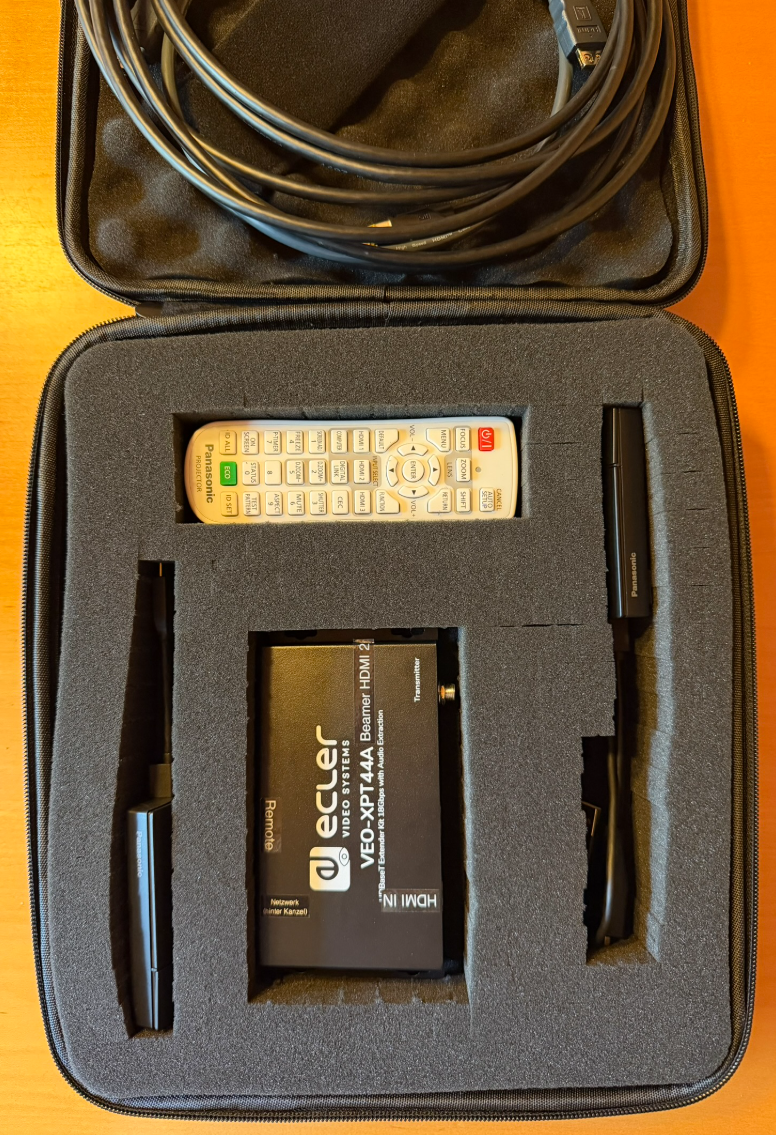
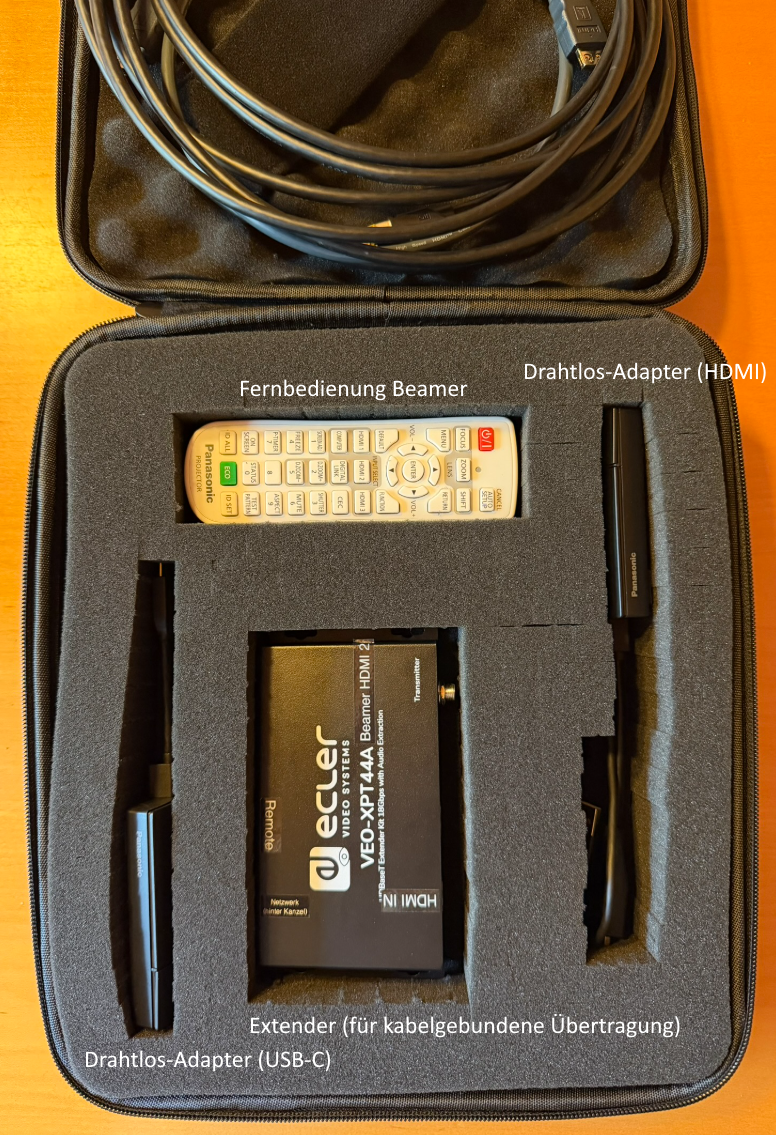
more content

Changed region(s): [[0.1237, 0.8943, 0.866, 0.9559], [0.6804, 0.3084, 0.9897, 0.3392], [0.3093, 0.3392, 0.5876, 0.37]]

diff --git a/beamer-gottesdienstraum.md b/beamer-gottesdienstraum.md
@@ -3,11 +3,14 @@ layout: default
 title: Anleitung Beamer
 ---
 
-
 # Anleitung für den Beamer im Gottesdienstraum der Martin-Luther-Kirche
 *Stand Juni 2026*
 
 ## Allgemein
+
+<div align="left">
+  <img src="beamer-mlk/beamer.png" width="100%">
+</div>
 
 Der Beamer ist fest an der Decke des Kirchenraumes installiert. Am Gerät selbst müssen keine Bedienschritte vorgenommen werden. Ein- und Ausschalten sowie die Auswahl des Eingangssignals erfolgt mittels Fernbedienung, die sich in einem schwarzen Koffer („Zubehör Beamer“) in der Schublade des „Lautsprecher-Schranks“ im Technikraum befindet.
 
@@ -15,25 +18,76 @@ Der Beamer ist fest an der Decke des Kirchenraumes installiert. Am Gerät selbst
   <img src="beamer-mlk/inhalt-koffer.png" width="100%">
 </div>
 
-Der Beamer wird über den roten Knopf eingeschaltet. Ausschalten geschieht ebenfalls über diesen Knopf (**zweimal** drücken).Sollte der Beamer nicht reagieren, bitte darauf achten, mit der Fernbedienung auf den Beamer zu zielen - nicht auf die Projektionsfläche.
+<div align="left">
+  <img src="beamer-mlk/remote-control.png" width="100%">
+</div>
+
+Der Beamer wird über den roten Knopf eingeschaltet. Ausschalten geschieht ebenfalls über diesen Knopf (**zweimal** drücken). Sollte der Beamer nicht reagieren, bitte darauf achten, mit der Fernbedienung auf den Beamer zu zielen - nicht auf die Projektionsfläche.
 
 ## Drahtlose Verbindung
 
-In dem Koffer befinden sich auch zwei Drahtlos-Adapter zum Anschluss von Notebooks. Für aktuelle Notebooks kann der USB-C-Adapter (links im Koffer) verwendet werden. Für ältere Modelle ohne USB-C-Anschluss steht ein HDMI-Adapter bereit (rechts im Koffer). Bitte bei diesem Adapter darauf achten, dass auch das zweite Kabel (mit USB-A-Stecker) im Notebook eingesteckt wird. Ansonsten funktioniert die Verbindung nicht.
+In dem Koffer befinden sich auch zwei Drahtlos-Adapter zum Anschluss von Notebooks. Für aktuelle Notebooks kann der USB-C-Adapter (links im Koffer) verwendet werden. Für ältere Modelle ohne USB-C-Anschluss steht ein HDMI-Adapter bereit (rechts im Koffer). Bitte bei diesem Adapter darauf achten, dass auch das zweite Kabel (mit USB-A-Stecker) zur Stromversorgung im Notebook eingesteckt wird. Ansonsten funktioniert die Verbindung nicht.
 
-![Dongle](beamer-mlk/dongle.png)
+<div align="left">
+  <img src="beamer-mlk/dongle.png" width="75%">
+</div>
 
-Ist der Drahtlos-Adapter korrekt im Notebook eingesteckt, blinkt dieser für einige Sekunden <span style="color: red">**rot**</span>. Bitte warten, bis der Streifen **weiß** leuchtet. Dann auf den Streifen klicken. Die Farbe wechselt zu <span style="color: green">**grün**</span> und der Bildschirminhalt des Notebooks wird auf den Beamer übertragen. Ein erneutes Klicken auf den Streifen beendet die Übertragung und die Farbe wechselt zurück zu **weiß**.
+Ist der Drahtlos-Adapter korrekt im Notebook eingesteckt, blinkt dieser für einige Sekunden <span style="color: red">**rot**</span>. Bitte warten, bis der Streifen **weiß** leuchtet. Dann auf den Streifen klicken / drücken. Die Farbe wechselt zu <span style="color: green">**grün**</span> und der Bildschirminhalt des Notebooks wird auf den Beamer übertragen. Ein erneutes Klicken auf den Streifen beendet die Übertragung und die Farbe wechselt zurück zu **weiß**.
 
-Projiziert der Beamer trotz grünen Lichts den Bildschirminhalt nicht, über die Fernbedienung des Beamers die Eingangsquelle HDMI1 auswählen. Oder ist der Beamer noch ausgeschaltet?
+Ist der Beamer auf die richtige Eingangsquelle konfiguriert, zeigt er, bis der Drahtlos-Adapter verbunden ist, eine Kurzanleitung an:
+
+<div align="left">
+  <img src="beamer-mlk/press-it-quickstart.png" width="100%">
+</div>
+
+### Problembehebung
+
+Projiziert der Beamer trotz grünen Lichts den Bildschirminhalt nicht, über die Fernbedienung des Beamers die Eingangsquelle **HDMI1** auswählen. Oder ist der Beamer noch ausgeschaltet?
+
 
 ## Übertragung des Notebook-Tons
 
-Über diese Verbindungsart kann auch der Notebook-Ton direkt in die Soundanlage der Kirche übertragen werden. Je nach Betriebssystem-Version ist die Bedienung hierzu leicht unterschiedlich. Prinzipiell muss aber über das Lautsprecher-Icon (meist rechts unten) die Soundausgabe festgelegt werden. Hier steht im Normalfall die eingebauten Lautsprecher und der Beamer zur Auswahl.
+Der Notebook-Ton kann direkt in die Soundanlage der Kirche übertragen werden. Je nach Betriebssystem-Version ist die Bedienung hierzu leicht unterschiedlich. Prinzipiell muss aber über das Lautsprecher-Icon (meist rechts unten) die Soundausgabe festgelegt werden. Hier steht im Normalfall die eingebauten Lautsprecher und der Beamer zur Auswahl.
 
-Ist der Ton zu leise, entweder am Notebook selbst die Lautstärke erhöhen oder am Bedienpult für der Lautsprecheranlage *Kanal 2* lauter regeln.
-Ist trotz der korrekten Auswahl der Soundausgabe am Notebook kein Ton zu hören, bitte an der StageBox hinter der Kanzel kontrollieren, dass der mit **BEAMER** beschriftete Stecker in der Buchse **2** eingesteckt ist.
+### Problembehebung
+
+|Problem     | Lösungen                                         |
+|-------     |---                                               |
+|Ton zu leise|* Am Notebook die Lautstärke erhöhen              |
+|            |* Am Bedienpult der Lautsprecheranlage (Mesnerplatz) *Kanal 2* lauter regeln. |
+|Kein Ton | * Ist die Lautsprecher-Anlage eingeschaltet?        |
+|         | * StageBox hinter der Kanzel kontrollieren: Ist der mit **BEAMER** beschriftete Stecker in der Buchse **2** eingesteckt |
 
 ## Kabelverbindung
 
-*Erklärung kommt bald*
+Als Alternative zur kabellosen Übertragung besteht auch die Möglichkeit, das Signal via HDMI-Kabel an den Beamer zu senden. Dies ist vor allem dann sinnvoll, wenn die Signalquelle außer dem HDMI-Ausgang keinen USB-A-Buchse hat, um den drahtlosen Adapter mit Strom zu versorgen. Dies wäre zum Beispiel bei einem Bluray-Player der Fall.
+
+Für diese Verbindungsart wird der Extender (schwarzer Kästchen in der Mitte des Koffers) und zwei Kabel benötigt (beide im Deckel des Koffers).
+
+Das HDMI-Kabel verbindet die Signalquelle mit dem Extender und das Netzwerk-Kabel den Extender mit der Netzwerkbuchse hinter der Kanzel.
+
+**WICHTIG:** Für diesen Modus muss der Beamer auf den Eingang **HDMI 2** eingestellt werden. Dazu bitte die Fernbedienung verwenden.
+
+### Verkabelung Extender
+<div align="left">
+  <img src="beamer-mlk/cable-overview.png" width="100%">
+</div>
+
+### Netzwerkbuchse hinter der Kanzel
+<div align="left">
+  <img src="beamer-mlk/network-socket.png" width="100%">
+</div>
+
+
+### Beispielverkabelung
+
+<div align="left">
+  <img src="beamer-mlk/cable-example.png" width="100%">
+</div>
+
+## Fragen?
+
+Bei Fragen oder Problemen gerne bei Christian Polonio melden.
+
+
+